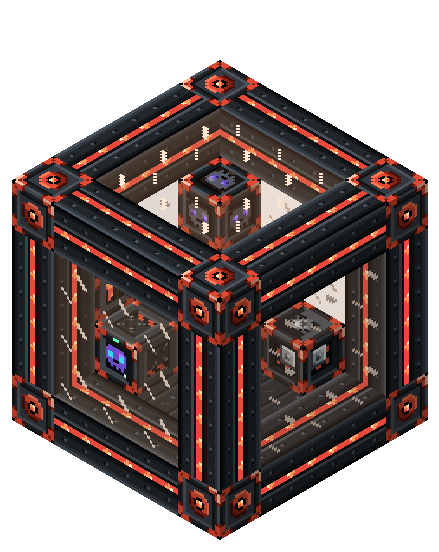
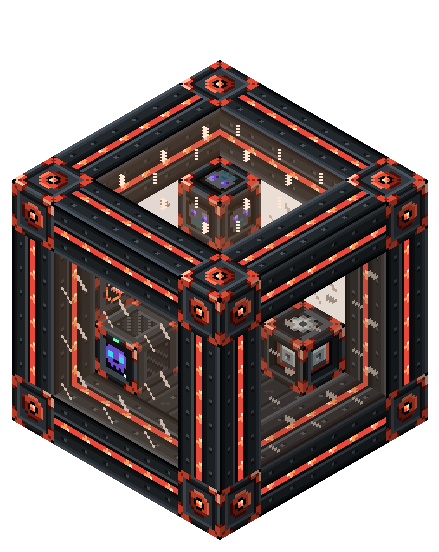
Give the Impact Ram its own strike sound, add farm forming, strike and death particles, clean up farm casing, port, ram and wither matrix textures

diff --git a/src/main/java/com/arno/robotica/replicator/farm/FarmControllerBlockEntity.java b/src/main/java/com/arno/robotica/replicator/farm/FarmControllerBlockEntity.java
@@ -17,6 +17,8 @@ import com.arno.robotica.replicator.logic.Harvest;
 import net.minecraft.core.BlockPos;
 import net.minecraft.core.Direction;
 import net.minecraft.core.HolderLookup;
+import net.minecraft.core.particles.BlockParticleOption;
+import net.minecraft.core.particles.DustParticleOptions;
 import net.minecraft.core.particles.ParticleTypes;
 import net.minecraft.nbt.CompoundTag;
 import net.minecraft.nbt.ListTag;
@@ -32,12 +34,14 @@ import net.minecraft.world.inventory.AbstractContainerMenu;
 import net.minecraft.world.item.ItemStack;
 import net.minecraft.world.item.Items;
 import net.minecraft.world.level.Level;
+import net.minecraft.world.level.block.Blocks;
 import net.minecraft.world.level.block.state.BlockState;
 import net.minecraft.world.level.levelgen.structure.BoundingBox;
 import net.neoforged.neoforge.items.IItemHandler;
 import net.neoforged.neoforge.items.ItemHandlerHelper;
 import net.neoforged.neoforge.items.ItemStackHandler;
 import org.jetbrains.annotations.Nullable;
+import org.joml.Vector3f;
 
 import java.util.ArrayList;
 import java.util.List;
@@ -57,6 +61,8 @@ public class FarmControllerBlockEntity extends StructureControllerBlockEntity {
     private static final int LIT_GRACE = 20;
     /** Finished cycles are synced to watching clients at most this often. */
     private static final int SYNC_INTERVAL = 10;
+    /** Ticks between two forming or two death effects (short cycles skip some). */
+    private static final int FX_INTERVAL = 20;
 
     /** Why the farm is not working (GUI word). */
     public enum State { NOT_FORMED, RUNNING, NO_VIALS, NO_ENERGY, OUTPUT_FULL }
@@ -141,7 +147,10 @@ public class FarmControllerBlockEntity extends StructureControllerBlockEntity {
     private boolean working;
     private boolean syncPending;
     private long lastSync = Long.MIN_VALUE / 2;
-    private long lastStrikeSound = Long.MIN_VALUE / 2, lastDeathSound = Long.MIN_VALUE / 2;
+    private long lastStrikeSound = Long.MIN_VALUE / 2, lastDeathSound = Long.MIN_VALUE / 2, lastFormFx = Long.MIN_VALUE / 2;
+    /** Effect particles: motes in the farm's colour, chips of the mob's body (iron, or soul sand for the Wither). */
+    private final DustParticleOptions glowDust;
+    private final BlockParticleOption debris;
 
     // client mirror (see saveClientData)
     private long clientSyncTime = Long.MIN_VALUE;
@@ -150,6 +159,10 @@ public class FarmControllerBlockEntity extends StructureControllerBlockEntity {
         super(ReplicatorRegistry.FARM_BE.get(), pos, blockState);
         this.kind = FarmKind.of(blockState);
         this.vials = newVialHandler(kind, this::setChanged);
+        int c = kind.color();
+        this.glowDust = new DustParticleOptions(new Vector3f((c >> 16 & 0xFF) / 255F, (c >> 8 & 0xFF) / 255F, (c & 0xFF) / 255F), 1.0F);
+        this.debris = new BlockParticleOption(ParticleTypes.BLOCK,
+                (kind == FarmKind.WITHER ? Blocks.SOUL_SAND : Blocks.IRON_BLOCK).defaultBlockState());
     }
 
     public FarmKind kind() {
@@ -260,6 +273,7 @@ public class FarmControllerBlockEntity extends StructureControllerBlockEntity {
             state = State.RUNNING;
             worked = true;
             progress++;
+            if (progress == 1) form(level, now);
             strike(level, now);
             if (progress >= needed) {
                 progress = 0;
@@ -287,7 +301,17 @@ public class FarmControllerBlockEntity extends StructureControllerBlockEntity {
         }
     }
 
-    /** A ram hits on this tick of the cycle: its sound, the mob's hurt sound and sparks where it hits. */
+    /** A new mob starts to form: a beam of motes from the roof matrix down into the chamber, a glow round the mob. */
+    private void form(ServerLevel level, long now) {
+        if (center == null || now - lastFormFx < FX_INTERVAL) return;
+        lastFormFx = now;
+        double x = center.getX() + 0.5, y = center.getY(), z = center.getZ() + 0.5;
+        level.sendParticles(ParticleTypes.ELECTRIC_SPARK, x, y + 1.9, z, 6, 0.2, 0.02, 0.2, 0.05);
+        level.sendParticles(glowDust, x, y + 1.1, z, 14, 0.05, 0.45, 0.05, 0);
+        level.sendParticles(glowDust, x, y + 0.2, z, 20, 0.35, 0.6, 0.35, 0);
+    }
+
+    /** A ram hits on this tick of the cycle: its sound, the mob's hurt sound, sparks and chips where it hits, smoke at its bore. */
     private void strike(ServerLevel level, long now) {
         int i = FarmCycle.strikeAt(progress, needed);
         if (i < 0 || i >= rams.size() || center == null) return;
@@ -299,8 +323,12 @@ public class FarmControllerBlockEntity extends StructureControllerBlockEntity {
         BoundingBox box = box();
         if (box == null) return;
         Direction push = FarmStructure.ramPush(box, ram);
-        double x = ram.getX() + 0.5 + push.getStepX() * 1.6, y = ram.getY() + 0.5, z = ram.getZ() + 0.5 + push.getStepZ() * 1.6;
-        level.sendParticles(ParticleTypes.CRIT, x, y, z, 8, 0.15, 0.25, 0.15, 0.25);
+        double rx = ram.getX() + 0.5, ry = ram.getY() + 0.5, rz = ram.getZ() + 0.5;
+        double x = rx + push.getStepX() * 1.6, z = rz + push.getStepZ() * 1.6;
+        level.sendParticles(ParticleTypes.CRIT, x, ry, z, 10, 0.15, 0.25, 0.15, 0.3);
+        level.sendParticles(debris, x, ry, z, 8, 0.15, 0.3, 0.15, 0.1);
+        level.sendParticles(ParticleTypes.SMOKE, rx + push.getStepX() * 0.6, ry, rz + push.getStepZ() * 0.6,
+                4, 0.15, 0.15, 0.15, 0.01);
     }
 
     /** The mob falls: its loot goes to the output (what does not fit waits in {@link #pending}). */
@@ -316,12 +344,17 @@ public class FarmControllerBlockEntity extends StructureControllerBlockEntity {
         }
         cycles++;
         syncPending = true;
-        if (now - lastDeathSound >= 20) {
+        if (now - lastDeathSound >= FX_INTERVAL) {
             lastDeathSound = now;
             if (result != null && result.deathSound() != null) {
                 level.playSound(null, center, result.deathSound(), SoundSource.BLOCKS, 0.6F, 0.9F + level.random.nextFloat() * 0.2F);
             }
-            level.sendParticles(ParticleTypes.POOF, center.getX() + 0.5, center.getY(), center.getZ() + 0.5, 12, 0.4, 0.5, 0.4, 0.02);
+            // the mob breaks up on the chamber floor
+            double x = center.getX() + 0.5, y = center.getY() - 0.5, z = center.getZ() + 0.5;
+            level.sendParticles(ParticleTypes.POOF, x, y, z, 14, 0.5, 0.3, 0.5, 0.03);
+            level.sendParticles(debris, x, y, z, 24, 0.6, 0.25, 0.6, 0.15);
+            level.sendParticles(glowDust, x, y + 0.4, z, 12, 0.6, 0.4, 0.6, 0);
+            if (kind == FarmKind.WITHER) level.sendParticles(ParticleTypes.SOUL, x, y, z, 8, 0.5, 0.2, 0.5, 0.04);
         }
     }
 

diff --git a/scripts/textures/mob_farm.py b/scripts/textures/mob_farm.py
@@ -49,25 +49,19 @@ def pal(mob='golem'):
 
 # ---------------------------------------------------------------- shell
 
-def tread(c, x, y, w, h, phase=0):
-    """Tread plate: raised 2 px dashes, alternating diagonals on a 4 px grid (lit top-left pixel, shade below)."""
-    for gy in range(y, y + h - 1, 4):
-        for gx in range(x, x + w - 1, 4):
-            if ((gx - x) // 4 + (gy - y) // 4 + phase) % 2:
-                c.set(gx, gy + 1, 'e').set(gx + 1, gy, 'd').set(gx + 1, gy + 1, 'a').set(gx, gy + 2, 'a')
-            else:
-                c.set(gx, gy, 'e').set(gx + 1, gy + 1, 'd').set(gx + 1, gy + 2, 'a').set(gx + 2, gy + 1, 'a')
-    return c
-
-
 def farm_casing():
-    """Loose casing: a heavy bevelled plate, red bolts in the corners, a sunk tread plate with a hazard strip."""
+    """Loose casing: the shell plate (half seams, red bolts in the corners) round a sunk knurled tread plate."""
     c = Canvas()
     c.rect(0, 0, 16, 16, 'c')
     c.bevel(0, 0, 16, 16, 'd', 'a')
-    c.recess(3, 3, 10, 10, mc.BODY, fill='b')
-    tread(c, 4, 4, 8, 6)
-    c.hazard(4, 10, 8, 2, 'h', 'k')
+    c.bevel(3, 3, 10, 10, 'a', 'd')
+    c.rect(4, 4, 8, 8, 'b')
+    for y in range(4, 12):                                               # diagonal knurl: lit ridge, shadow below it
+        for x in range(4, 12):
+            if (x + y) % 4 == 0:
+                c.set(x, y, 'd')
+            elif (x + y) % 4 == 1:
+                c.set(x, y, 'a')
     for x, y in ((0, 0), (14, 0), (0, 14), (14, 14)):
         en.bolt(c, x, y)
     return c
@@ -125,24 +119,25 @@ def farm_glass(joined):
 
 # ---- port
 
-BOLT = ['.wx', 'wx.', 'xxx', '.xw', 'xw.', 'w..']
-CHUTE = ['wwww', 'vwwv', '.vv.', '.vv.', '.wv.', '..v.']
+BOLT = ['..ab', '.ab.', 'abba', '.ba.', 'ba..', 'a...']
 
 
 def farm_port():
-    """Farm Port: a dark socket with the energy bolt (FE in) beside a hopper chute (loot out), marks dim."""
+    """Farm Port: a red terminal ring round a dark socket with the energy bolt, on a grilled hatch (FE in, loot out)."""
     c = mc.shell(1)
-    c.rect(3, 3, 10, 10, 'D').bevel(3, 3, 10, 10, 'a', 'd')
-    c.draw(4, 5, [r.replace('w', '6').replace('x', 'r') for r in BOLT])
-    c.rect(7, 4, 1, 8, 'b')                                              # divider
-    c.draw(8, 5, [r.replace('w', '6').replace('v', 'r') for r in CHUTE])
+    c.rect(3, 3, 10, 10, 'b').bevel(3, 3, 10, 10, 'a', 'd')
+    c.grille(4, 4, 8, 8, 'K', 'a')
+    c.disc(7.5, 7.5, 4.6, 'a')
+    c.ring(7.5, 7.5, 3.3, 4.2, 'g').ring(7.5, 7.5, 3.3, 3.7, 'h')
+    c.disc(7.5, 7.5, 3.0, 'D')
+    c.draw(6, 5, [r.replace('a', '6').replace('b', 'r') for r in BOLT])
     return c
 
 
 def farm_port_glow():
     c = Canvas()
-    c.draw(4, 5, BOLT).replace('x', 'Y').replace('w', 'y')
-    c.draw(8, 5, CHUTE)
+    c.ring(7.5, 7.5, 3.3, 4.2, 'v').ring(7.5, 7.5, 3.3, 3.7, 'w')
+    c.draw(6, 5, [r.replace('a', 'y').replace('b', 'Y') for r in BOLT])
     return c
 
 
@@ -152,20 +147,22 @@ def farm_port_glow():
 # same head out of the inner face, from textures/entity/impact_ram.png.
 
 def ram_head(c, x, y):
-    """10x10 ram head face: red hazard stripes round a polished steel plate, a nut where the rod sits behind it."""
+    """10x10 ram head face: a polished steel striking plate in a red hazard metal rim, a nut where the rod sits."""
     for j in range(10):
         for i in range(10):
             if i in (0, 9) or j in (0, 9):
                 ch = 'K'
-            elif i in (1, 8) or j in (1, 8):
-                ch = 'h' if (i + j) % 4 < 2 else 'k'
+            elif i == 1 or j == 1:
+                ch = 'i'
+            elif i == 8 or j == 8:
+                ch = 'g'
             else:
-                t = i + j
-                ch = '3' if t < 7 else '1' if t > 11 else '2'
+                ch = '2'
             c.set(x + i, y + j, ch)
-    c.rect(x + 2, y + 2, 6, 1, '4').rect(x + 2, y + 2, 1, 6, '4').set(x + 2, y + 2, 'W')
-    c.rect(x + 2, y + 7, 6, 1, '0').rect(x + 7, y + 2, 1, 6, '0')
-    c.rect(x + 4, y + 4, 2, 2, '1').set(x + 4, y + 4, '3').set(x + 5, y + 5, '0')
+    c.set(x + 1, y + 8, 'h').set(x + 8, y + 1, 'h')
+    c.rect(x + 2, y + 2, 6, 1, '4').rect(x + 2, y + 2, 1, 6, '3').set(x + 2, y + 2, 'W')
+    c.rect(x + 2, y + 7, 6, 1, '0').rect(x + 7, y + 2, 1, 6, '1')
+    c.rect(x + 4, y + 4, 2, 2, '1').set(x + 4, y + 4, '0').set(x + 5, y + 5, '3')
     return c
 
 
@@ -184,15 +181,15 @@ def impact_ram_head():
 
 
 def impact_ram_top():
-    """Housing top: the hazard bracketed shell over a vented hydraulic block round the cylinder cap."""
+    """Housing top: the hazard bracketed shell over the hydraulic cylinder's polished cap."""
     c = mc.shell(1)
     c.recess(3, 3, 10, 10, mc.BODY, fill='b')
-    c.vents(4, 4, 8, 8, mc.BODY)
-    c.disc(7.5, 7.5, 3.4, 'K')
-    c.disc(7.5, 7.5, 2.8, '1')
-    c.disc(7.0, 7.0, 2.0, '2')
-    c.set(6, 6, '4').set(7, 6, '3').set(6, 7, '3')
-    c.set(7, 8, '0').set(8, 8, '0').set(8, 7, '0')
+    c.disc(7.5, 7.5, 4.2, 'K')
+    c.disc(7.5, 7.5, 3.6, '1')
+    c.disc(7.0, 7.0, 3.0, '2')
+    c.disc(7.0, 7.0, 2.0, '3')
+    c.disc(7.5, 7.5, 1.2, '0')
+    c.set(5, 5, '4').set(6, 5, '4').set(5, 6, '4')
     return c
 
 
@@ -202,7 +199,7 @@ def ram_entity():
     c = Canvas(32)
     ram_head(c, 0, 0)
     for i in range(10):
-        c.set(10 + i, 0, 'h' if i % 4 < 2 else 'k')
+        c.set(10 + i, 0, 'h')
         c.set(10 + i, 1, '3').set(10 + i, 2, '2').set(10 + i, 3, '0')
     c.set(10, 1, '2').set(19, 2, '1')
     for y in range(16):
@@ -244,7 +241,7 @@ SKULL = ['.ZZZZZZ.', 'ZzzZZZZZ', 'ZeeZZeeZ', 'ZeeZZeeZ', 'ZZZmmZZZ', '.ZZZZZZ.',
 
 
 def wither_matrix():
-    """The shell round sunk soul sand holding a wither skull; its eye sockets glow violet."""
+    """The shell round sunk soul sand holding a wither skull; its eye sockets glow violet, nose and teeth soul blue."""
     c = mc.shell(1)
     c.rect(3, 3, 10, 10, 'n')
     c.speckle(3, 3, 10, 10, 'mos', 0.35, 21)
@@ -256,8 +253,8 @@ def wither_matrix():
 
 def wither_matrix_glow():
     c = Canvas()
-    c.draw(4, 5, [r.replace('Z', '.').replace('z', '.').replace('m', '.') for r in SKULL])
-    c.replace('e', 'Q')
+    c.draw(4, 5, [r.replace('Z', '.').replace('z', '.') for r in SKULL])
+    c.replace('e', 'Q').replace('m', 'B')
     c.set(5, 7, 'S').set(9, 7, 'S').set(6, 8, 'P').set(10, 8, 'P')
     return c
 

diff --git a/scripts/sounds/machines.py b/scripts/sounds/machines.py
@@ -1,4 +1,4 @@
-"""Machine sounds: soft synthesized clips for the processing machines, the RTG and chargers.
+"""Machine sounds: soft synthesized clips for the processing machines, the RTG, chargers and the Impact Ram.
 Run: python3 scripts/sounds/machines.py   (writes assets/robotica/sounds/machine/*.ogg; needs numpy and ffmpeg)
 
 Every clip is mono 44.1 kHz, built from sines and filtered noise with a seeded generator, faded in and out and
@@ -110,9 +110,26 @@ def chime():
     return at(total, 0, bell(1046.5, 0.6)) + at(total, 0.11, bell(1568.0, 0.75) * 0.8)
 
 
+def ram():
+    """Impact Ram strike: a heavy low thump with a steel clank on top, then the hiss of the ram pulling back. The hit
+    starts the clip, as the sound plays on the tick the head lands."""
+    total = 0.6
+    t = time(total)
+    k = time(0.45)
+    freq = 55 + 85 * np.exp(-k / 0.03)                                    # thump falling from 140 to 55 Hz
+    thump = np.sin(2 * np.pi * np.cumsum(freq) / SR) * np.exp(-k / 0.085)
+    body = band(noise(0.45, 32), 60, 400) * np.exp(-k / 0.05) * 0.5
+    crack = band(noise(0.45, 33), 300, 2500) * np.exp(-k / 0.012) * 0.45
+    partials = ((310, 0.22), (737, 0.16), (1290, 0.08))                  # steel clank, inharmonic
+    clank = sum(a * np.sin(2 * np.pi * f * k) for f, a in partials) * np.exp(-k / 0.07)
+    hit = np.tanh(1.6 * (thump + body + crack + clank)) / np.tanh(1.6) * env(k, 0.002, 0.08)  # soft clip
+    vent = band(noise(0.35, 34), 1200, 4500) * np.exp(-time(0.35) / 0.09) * env(time(0.35), 0.03, 0.12) * 0.09
+    return (at(total, 0.005, hit) + at(total, 0.12, vent)) * env(t, 0.001, 0.1)
+
+
 CLIPS = {
     'grind': grind, 'smelt': smelt, 'centrifuge': centrifuge, 'geiger': geiger,
-    'chime': chime,
+    'chime': chime, 'ram': ram,
 }
 
 
